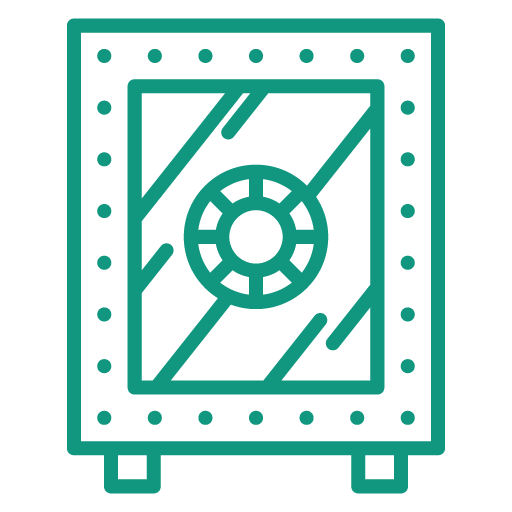
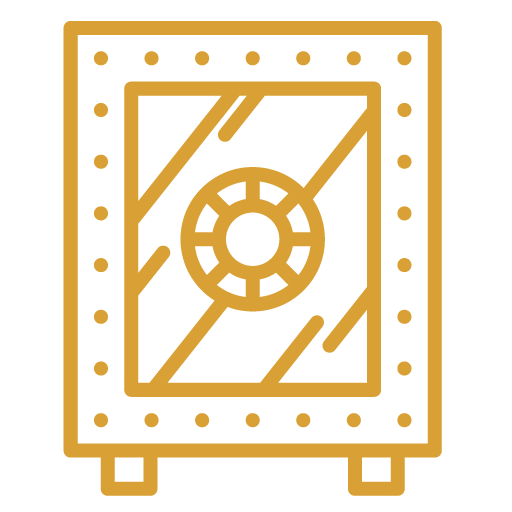
new indicator colors

Changed region(s): [[0.125, 0.0312, 0.875, 0.9688]]

diff --git a/html/js/Barchart.js b/html/js/Barchart.js
@@ -4,14 +4,22 @@ $(document).ready(function() {
 	makeChart(this.indicator, this.year, new Set());
 });
 
-var randomColorGenerator = function () { 
-    return '#' + (Math.random().toString(16) + '0000000').slice(2, 8); 
+var randomColorGenerator = function () {
+    return '#' + (Math.random().toString(16) + '0000000').slice(2, 8);
 };
 
 var _districtColors = {}
 
 for (var d of getDistricts()) {
 	_districtColors[d] = randomColorGenerator();
+}
+
+var makeDarkerColor = function(cl) {
+	return [
+		Math.floor(cl[0] * 0.6),
+		Math.floor(cl[1] * 0.6),
+		Math.floor(cl[2] * 0.6),
+	];
 }
 
 var crimeColor = {'murders' : '#ce2b00'};
@@ -79,9 +87,10 @@ function makeChart(indicator, year, selectedDistricts) {
 	items.sort(function(first, second) {
 		return second[1] - first[1];
 	});
-	items = items.slice(0, Math.min(items.length, 10));
+	// items = items.slice(0, Math.min(items.length, 10));
 	// console.log(items);
     // TODO sort by count
+    var color = kIndicatorsInfo[indicator] != undefined ? kIndicatorsInfo[indicator]['color'] : randomColorGenerator();
 	_chart = new Chart(ctx, {
 	    type: 'bar',
 	    data: {
@@ -89,8 +98,8 @@ function makeChart(indicator, year, selectedDistricts) {
 	        datasets: [{
 	            label: kIndicatorsInfo[indicator] != undefined ? kIndicatorsInfo[indicator]['translation'] : indicator,
 	            data: items.map(function(x) { return x[1]; }),
-	            
-	            // single color 
+
+	            // single color
 	            // backgroundColor: items.map(function(x) {
 	            // 	return kIndicatorsInfo[indicator] != undefined ? kIndicatorsInfo[indicator]['color'] : randomColorGenerator();
 	            // }),
@@ -101,7 +110,6 @@ function makeChart(indicator, year, selectedDistricts) {
 	            }),
 
 	            borderColor: randomColorGenerator(),
-	            
 	            // borderColor: [
 	            //     'rgba(255,99,132,1)',
 	            //     'rgba(54, 162, 235, 1)',
@@ -110,7 +118,10 @@ function makeChart(indicator, year, selectedDistricts) {
 	            //     'rgba(153, 102, 255, 1)',
 	            //     'rgba(255, 159, 64, 1)'
 	            // ],
-	            borderWidth: 1
+	            borderWidth: 1,
+	            textColor: 'white',
+	            fontColor: 'white',
+		        color: 'white',
 	        }]
 	    },
 	    options: {
@@ -120,7 +131,10 @@ function makeChart(indicator, year, selectedDistricts) {
 	                    beginAtZero:true
 	                }
 	            }]
-	        }
+	        },
+	        textColor: 'white',
+	        fontColor: 'white',
+	        color: 'white',
 	    }
 	});
 }

diff --git a/html/js/indicatorsInfo.js b/html/js/indicatorsInfo.js
@@ -28,14 +28,18 @@ var kIndicatorsInfo = {
 	},
 	"burglary": {
 		"translation": "Квартирные кражи",
-		"color": "#11977f"
+		"color": "#ffae2c"
+		// "color": "#d9a135"
+		// "color": "#11977f"
 	},
 	"carthefts": {
 		"translation": "Автомобильные кражи",
-		"color": "#0ba6a8"
+		"color": "#ff29a9"
+		// "color": "#0ba6a8"
 	},
 	"drugs": {
 		"translation": "Наркотики",
-		"color": "#5ac37e"
+		"color": "#ccf22f"
+		// "color": "#5ac37e"
 	},
 }

diff --git a/html/main.css b/html/main.css
@@ -150,9 +150,11 @@ button:focus {
   position: absolute;
   bottom: 10px;
 }
+
 #controls .sources-ref > a {
   color:white;
 }
+
 #controls .sources-ref > a:hover {
   text-decoration: none;
   color: #ccc;
